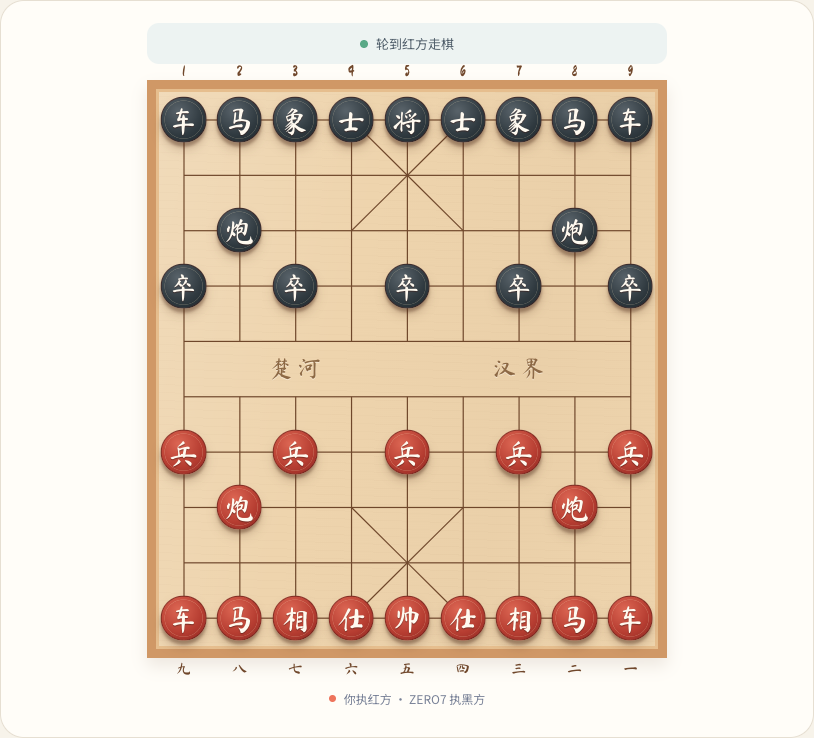
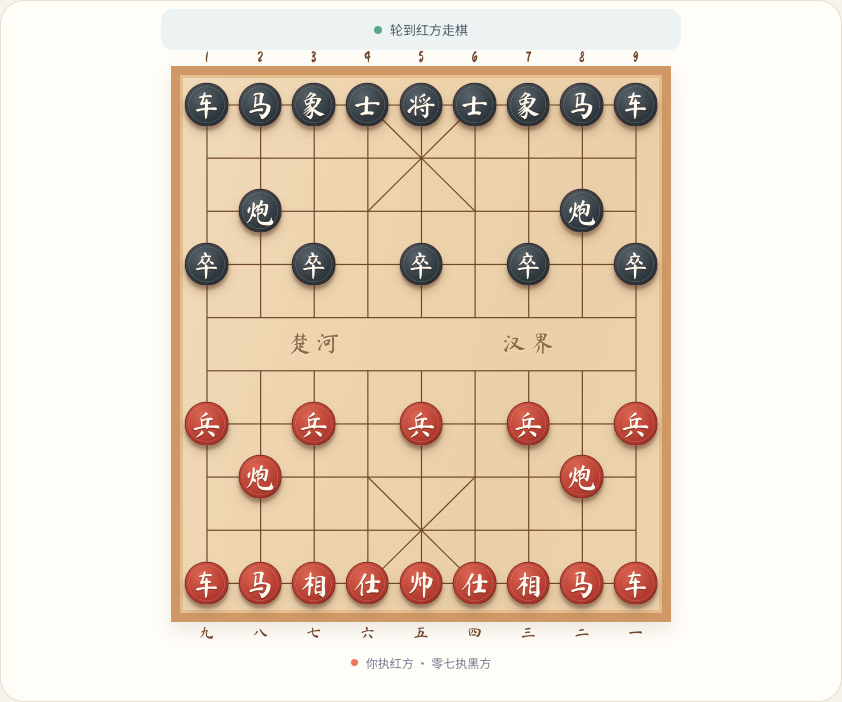
补齐覆盖率并更新开发访问配置

Changed region(s): [[0.1536, 0.0299, 0.8292, 0.9573]]

diff --git a/src/App.test.tsx b/src/App.test.tsx
@@ -151,7 +151,7 @@ describe('ZERO7', () => {
     fireEvent.click(screen.getAllByRole('button', { name: /成长/ })[0])
     expect(screen.getByText('我的象棋成长')).toBeInTheDocument()
     fireEvent.click(screen.getAllByRole('button', { name: /我的/ })[0])
-    expect(screen.getByText('ZERO7 棋友')).toBeInTheDocument()
+    expect(screen.getByText('零七棋友')).toBeInTheDocument()
     fireEvent.click(screen.getByLabelText('返回首页'))
     expect(screen.getByText('今日三小关')).toBeInTheDocument()
   })
@@ -221,6 +221,12 @@ describe('ZERO7', () => {
       fireEvent.click(collapse)
       expect(screen.queryByText(/推荐走法：/)).not.toBeInTheDocument()
     }
+    vi.stubGlobal('fetch', vi.fn(async () => new Response(JSON.stringify({ error: '分析失败' }), { status: 503 })))
+    fireEvent.click(screen.getByRole('button', { name: '重开一局' }))
+    fireEvent.click(screen.getByRole('button', { name: '局面分析' }))
+    await waitFor(() => expect(screen.getByText('当前无法获取胜负概率，请确认 Pikafish 可用。')).toBeInTheDocument())
+    fireEvent.click(screen.getAllByRole('button', { name: '红车' }).at(-1)!)
+    fireEvent.click(screen.getByRole('button', { name: '1-1' }))
   })
 
   it('点击棋谱可以跳转并返回当前局面', async () => {
@@ -294,7 +300,7 @@ describe('ZERO7', () => {
     expect(screen.getByText(/黑车闯进中路/)).toBeInTheDocument()
     fireEvent.click(screen.getByLabelText('返回首页'))
     fireEvent.click(screen.getAllByRole('button', { name: /我的/ })[0])
-    expect(screen.getByText('ZERO7 棋友')).toBeInTheDocument()
+    expect(screen.getByText('零七棋友')).toBeInTheDocument()
     fireEvent.click(screen.getByLabelText('返回首页'))
     const input = document.createElement('input')
     document.body.append(input)

diff --git a/src/App.tsx b/src/App.tsx
@@ -619,7 +619,7 @@ function BattlePage({ onBack }: { onBack: () => void }) {
       const analysisGame = new Chess(game.current.fen())
       const recommendedMove = analysisGame.move(result.move)
       const move = recommendedMove?.zh ?? result.move
-      const explanation = `推荐${move}，因为它能改善当前局面的子力协调和先手。点击棋谱或棋盘可以继续自己的选择，ZERO7 不会替你走这一步。`
+      const explanation = `推荐${move}，因为它能改善当前局面的子力协调和先手。点击棋谱或棋盘可以继续自己的选择，${BATTLE_RULES.brandName}不会替你走这一步。`
       setAnalysis({ red, black: 100 - red, move, explanation })
     } catch {
       setAnalysis(null)
@@ -813,7 +813,7 @@ function ProfilePage() {
   return (
     <div className="simple-page page-wrap">
       <span className="eyebrow"><UserRound /> MY PROFILE</span><h1>你好，棋友！</h1><p className="lead">这里保存着你的训练偏好和对局成长。</p>
-      <section className="profile-card"><div className="profile-avatar">棋<br />友</div><div><h2>ZERO7 棋友</h2><p>当前等级：象棋入门</p><span className="profile-tag"><Star /> 已训练 3 天</span></div></section>
+      <section className="profile-card"><div className="profile-avatar">棋<br />友</div><div><h2>零七棋友</h2><p>当前等级：象棋入门</p><span className="profile-tag"><Star /> 已训练 3 天</span></div></section>
       <section className="settings-card"><h2>训练设置</h2><div><span><Volume2 /> 语音讲解</span><strong>开启</strong></div><div><span><BookOpen /> 每日目标</span><strong>3 个训练关卡</strong></div><div><span><Target /> 当前难度</span><strong>入门</strong></div></section>
     </div>
   )

diff --git a/vite.config.ts b/vite.config.ts
@@ -5,6 +5,7 @@ import { defineConfig } from 'vite'
 export default defineConfig({
   plugins: [react()],
   server: {
+    host: '0.0.0.0',
     proxy: {
       '/linxi': {
         target: 'ws://127.0.0.1:8787',
